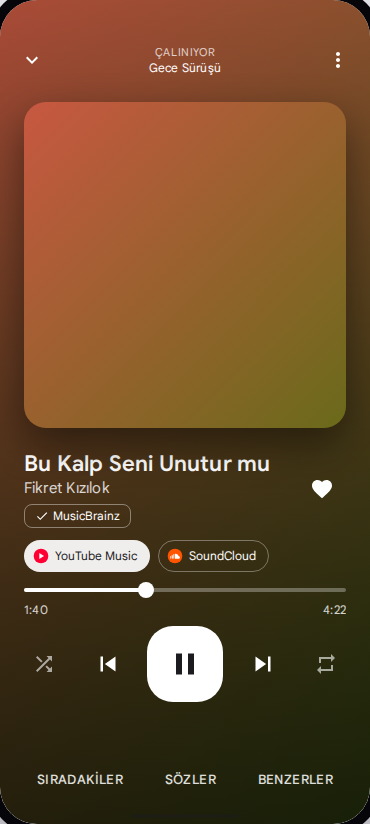
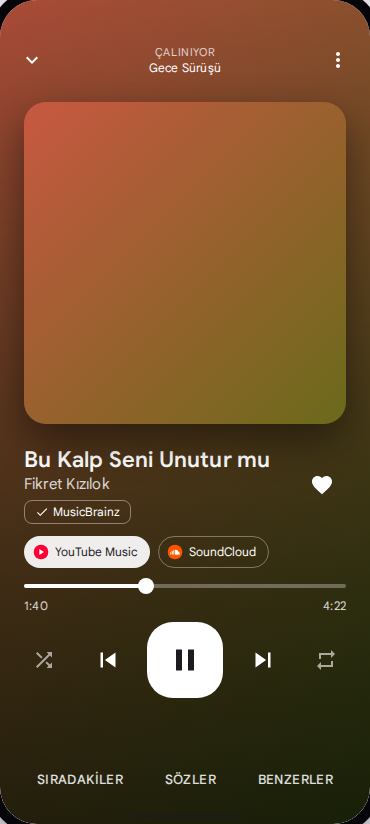
Keep the full player's cover square in the mock

diff --git a/docs/android/mock/index.html b/docs/android/mock/index.html
@@ -266,7 +266,7 @@
   .np .top .ctx{flex:1; text-align:center; font-size:12px; line-height:16px}
   .np .top .ctx span{display:block; opacity:.75; letter-spacing:.6px; text-transform:uppercase; font-size:11px}
   .np .ibtn{color:#fff}
-  .np .art{width:326px; height:326px; max-width:calc(100% - 48px); aspect-ratio:1; margin:18px auto 0; border-radius:22px; box-shadow:0 16px 40px rgba(0,0,0,.45); position:relative}
+  .np .art{width:326px; max-width:calc(100% - 48px); aspect-ratio:1; margin:18px auto 0; border-radius:22px; box-shadow:0 16px 40px rgba(0,0,0,.45); position:relative}
   .np .art .prep{position:absolute; inset:0; display:grid; place-items:center; background:rgba(0,0,0,.4); border-radius:inherit; font-size:13px; text-align:center}
   .np .art .prep .spinner{margin:0 auto 10px; border-color:rgba(255,255,255,.3); border-top-color:#fff}
   .np .info{display:flex; align-items:center; gap:8px; padding:22px 24px 0}
